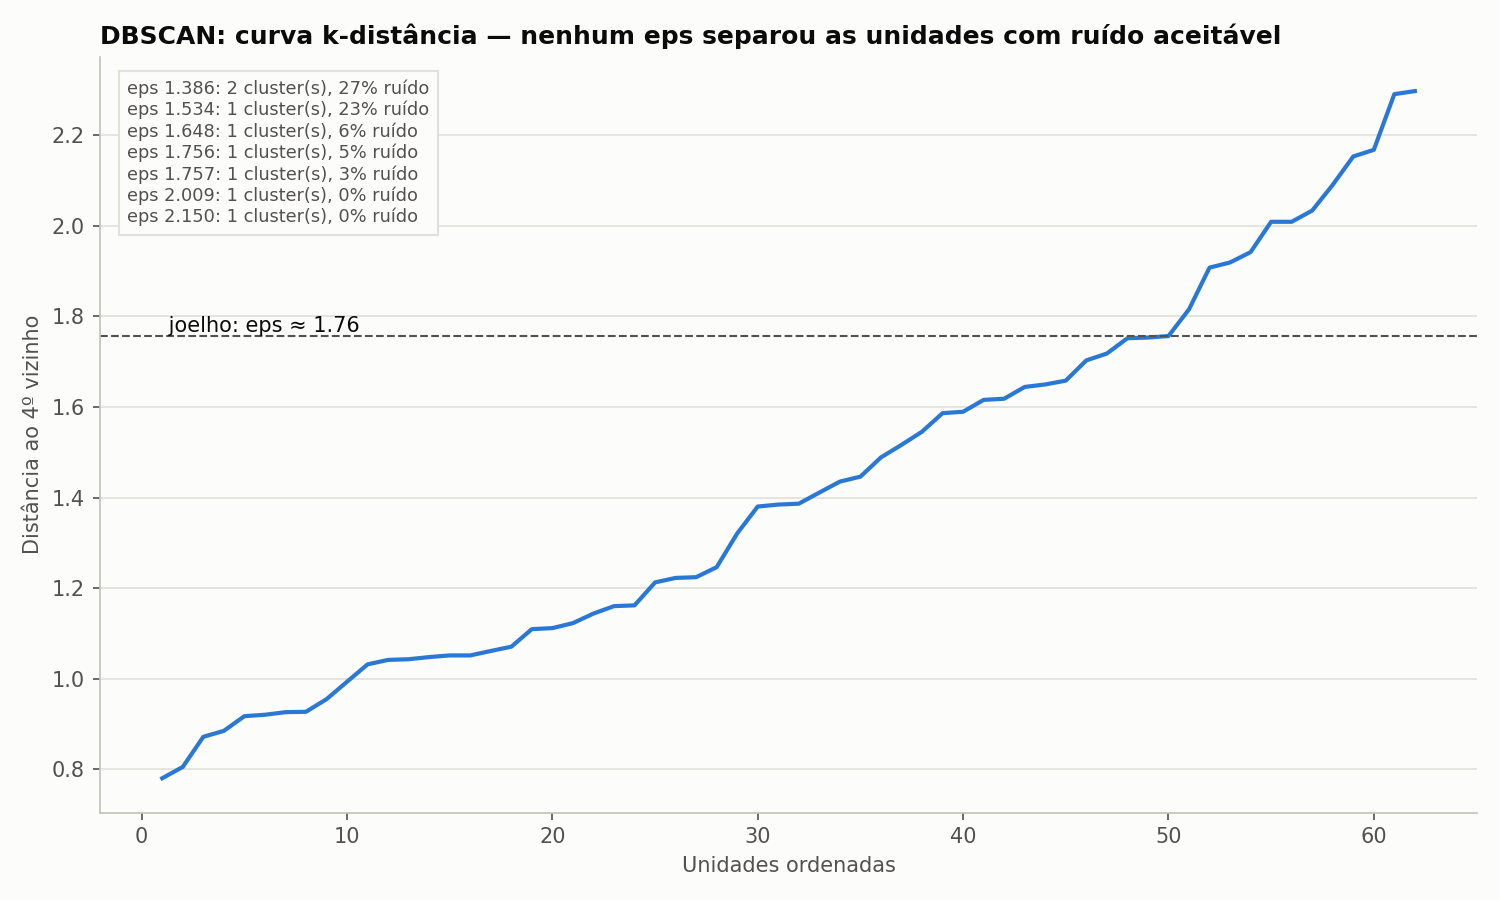
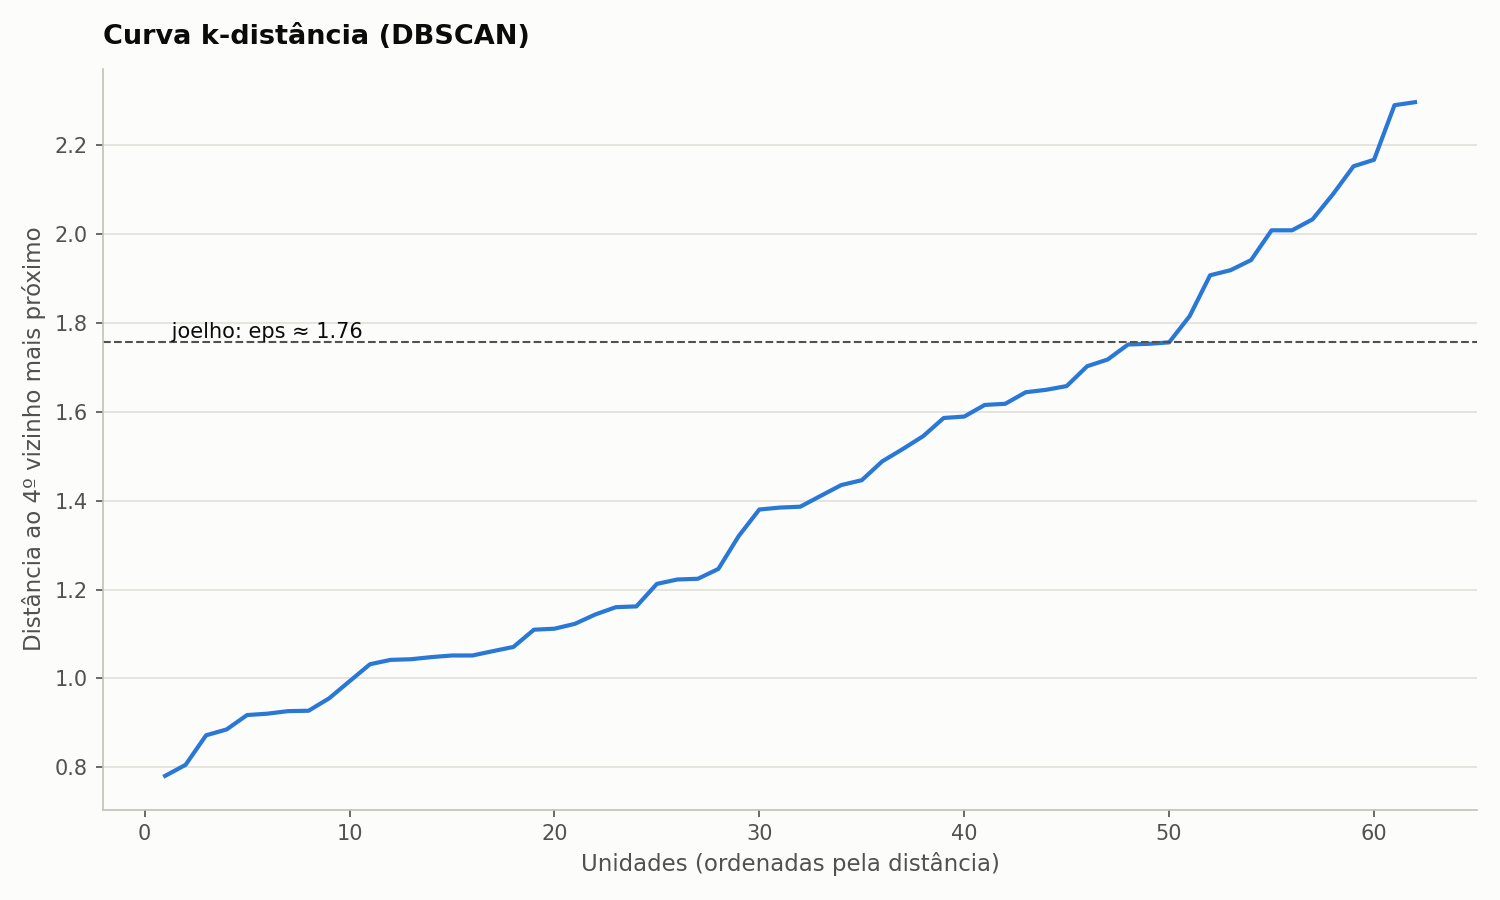
Simplificar visual dos gráficos e definir os eixos no README

diff --git a/ml/clustering_plots.py b/ml/clustering_plots.py
@@ -16,20 +16,17 @@ if __package__:
 else:
     from clustering import ROTULO_RUIDO, ResultadoClusterizacao
 
-# Paleta categórica em ordem fixa (nunca reciclada). Acima de três cores num
-# mesmo gráfico de dispersão algumas se confundem (laranja × rosa, e mais ainda
-# para daltônicos); por isso cada cluster também tem um marcador próprio e
-# rótulo direto, e a cor nunca é a única pista.
+# Paleta categórica em ordem fixa (nunca reciclada): cada cluster tem uma cor,
+# identificada pela legenda.
 CORES = ["#2a78d6", "#eb6834", "#1baf7a", "#eda100", "#e87ba4", "#008300", "#6250d6", "#e34948"]
-MARCADORES = ["o", "s", "^", "D", "P", "v", "X", "*"]
-CINZA = "#bdbcb5"
+COR_RUIDO = "#a3a29c"
 SUPERFICIE = "#fcfcfb"
 TINTA = "#0b0b0b"
 TINTA_SECUNDARIA = "#52514e"
 GRADE = "#e1e0d9"
 EIXO = "#c3c2b7"
 
-# Nomes legíveis das variáveis ativas, usados para descrever os eixos da PCA.
+# Nomes legíveis das variáveis ativas, usados para nomear os eixos da PCA.
 NOMES_VARIAVEIS = {
     "log_notificacoes_semana": "volume de notificações",
     "prop_chikungunya": "% chikungunya",
@@ -50,7 +47,8 @@ def _pyplot():
         "figure.facecolor": SUPERFICIE, "axes.facecolor": SUPERFICIE, "savefig.facecolor": SUPERFICIE,
         "font.family": "sans-serif", "font.size": 10,
         "text.color": TINTA, "axes.labelcolor": TINTA_SECUNDARIA, "axes.titlecolor": TINTA,
-        "axes.titlesize": 12, "axes.titleweight": "bold", "axes.titlelocation": "left",
+        "axes.titlesize": 13, "axes.titleweight": "bold", "axes.titlelocation": "left",
+        "axes.titlepad": 12, "axes.labelsize": 11,
         "axes.edgecolor": EIXO, "axes.spines.top": False, "axes.spines.right": False,
         "xtick.color": TINTA_SECUNDARIA, "ytick.color": TINTA_SECUNDARIA,
         "grid.color": GRADE, "grid.linewidth": .8, "legend.frameon": False, "axes.axisbelow": True,
@@ -68,37 +66,43 @@ def _salvar(figura, destino: Path) -> Path:
     return destino
 
 
-def _juntar(nomes: list[str]) -> str:
-    """["a", "b", "c"] → "a, b e c"."""
-    return nomes[0] if len(nomes) == 1 else ", ".join(nomes[:-1]) + " e " + nomes[-1]
+def _nome_componente(resultado: ResultadoClusterizacao, indice: int) -> str:
+    """Nome curto do eixo: variável de maior carga positiva × de maior carga negativa.
 
-
-def _rotulo_componente(
-    resultado: ResultadoClusterizacao, indice: int, sentido: str,
-    quebrar: bool = False, maximo: int = 3, carga_minima: float = .3,
-) -> str:
-    """Descreve um eixo da PCA pelas variáveis de maior carga no componente.
-
-    Cargas positivas aumentam no sentido do eixo; negativas diminuem. Ex.:
-    "PC1 (26% da variância) — para a direita: mais hospitalização e %
-    chikungunya, menos volume de notificações".
+    A definição completa de cada componente fica no README.
     """
-    pca = resultado.relatorio["pca"]
-    cargas = pca["cargas"][f"PC{indice + 1}"]
-    principais = sorted(cargas.items(), key=lambda item: abs(item[1]), reverse=True)[:maximo]
-    principais = [(variavel, carga) for variavel, carga in principais if abs(carga) >= carga_minima]
-    mais = [NOMES_VARIAVEIS.get(v, v) for v, carga in principais if carga > 0]
-    menos = [NOMES_VARIAVEIS.get(v, v) for v, carga in principais if carga < 0]
-    partes = ([f"mais {_juntar(mais)}"] if mais else []) + ([f"menos {_juntar(menos)}"] if menos else [])
-    cabecalho = f"PC{indice + 1} ({pca['variancia_por_componente'][indice]:.0%} da variância)"
-    if quebrar:
-        return f"{cabecalho}\n{sentido}: " + ",\n".join(partes)
-    return f"{cabecalho} — {sentido}: " + ", ".join(partes)
+    cargas = resultado.relatorio["pca"]["cargas"][f"PC{indice + 1}"]
+    positiva = max(cargas, key=cargas.get)
+    negativa = min(cargas, key=cargas.get)
+    nome = NOMES_VARIAVEIS.get(positiva, positiva)
+    if cargas[negativa] < 0:
+        nome += f" × {NOMES_VARIAVEIS.get(negativa, negativa)}"
+    return f"Componente {indice + 1}: {nome}"
 
 
-def _eixos_pca(eixo, resultado: ResultadoClusterizacao) -> None:
-    eixo.set_xlabel(_rotulo_componente(resultado, 0, "para a direita"))
-    eixo.set_ylabel(_rotulo_componente(resultado, 1, "para cima", quebrar=True))
+def _dispersao(resultado: ResultadoClusterizacao, algoritmo: str, x: str, y: str,
+               titulo: str, rotulo_x: str, rotulo_y: str, destino: Path) -> Path:
+    """Uma cor por cluster, todos no mesmo gráfico; ruído (se houver) em cinza."""
+    plt = _pyplot()
+    perfil = resultado.perfil
+    rotulos = perfil[f"cluster_{algoritmo}"]
+    nomes = perfil[f"nome_cluster_{algoritmo}"]
+    figura, eixo = plt.subplots(figsize=(11, 7))
+    clusters = sorted(c for c in rotulos.unique() if c != ROTULO_RUIDO)
+    for posicao, cluster in enumerate(clusters):
+        selecao = rotulos.eq(cluster)
+        eixo.scatter(perfil.loc[selecao, x], perfil.loc[selecao, y], s=70, color=CORES[posicao % len(CORES)],
+                     edgecolors=SUPERFICIE, linewidths=1, zorder=3,
+                     label=f"{nomes[selecao].iloc[0]} ({selecao.sum()})")
+    ruido = rotulos.eq(ROTULO_RUIDO)
+    if ruido.any():
+        eixo.scatter(perfil.loc[ruido, x], perfil.loc[ruido, y], s=70, color=COR_RUIDO,
+                     edgecolors=SUPERFICIE, linewidths=1, zorder=2,
+                     label=f"{nomes[ruido].iloc[0]} ({ruido.sum()})")
+    eixo.set(title=titulo, xlabel=rotulo_x, ylabel=rotulo_y)
+    eixo.grid(True)
+    eixo.legend(loc="upper left", bbox_to_anchor=(1.01, 1), borderaxespad=0)
+    return _salvar(figura, destino)
 
 
 # ---------------------------------------------------------------------------
@@ -111,12 +115,11 @@ def grafico_cotovelo(resultado: ResultadoClusterizacao, destino: Path) -> Path:
     escolhido = resultado.relatorio["kmeans"]["k_selecionado"]
     figura, eixo = plt.subplots(figsize=(10, 6))
     eixo.plot(ks, inercia, marker="o", color=CORES[0], markersize=7)
-    eixo.scatter([escolhido], [por_k[str(escolhido)]["inercia"]], s=160, color=CORES[0],
-                 edgecolors=TINTA, linewidths=1.5, zorder=4)
-    eixo.annotate(f"k escolhido = {escolhido}", xy=(escolhido, por_k[str(escolhido)]["inercia"]),
+    eixo.scatter([escolhido], [por_k[str(escolhido)]["inercia"]], s=150, color=CORES[0], zorder=4)
+    eixo.annotate(f"k = {escolhido}", xy=(escolhido, por_k[str(escolhido)]["inercia"]),
                   xytext=(12, 12), textcoords="offset points", color=TINTA)
-    eixo.set(xticks=ks, xlabel="Número de clusters (k)", ylabel="Inércia (soma das distâncias² ao centróide)",
-             title="Método do cotovelo")
+    eixo.set(xticks=ks, xlabel="Número de clusters (k)", ylabel="Inércia",
+             title="Método do cotovelo (K-Means)")
     eixo.grid(axis="y")
     return _salvar(figura, destino)
 
@@ -139,8 +142,7 @@ def grafico_diagrama_silhueta(resultado: ResultadoClusterizacao, destino: Path) 
     eixo.axvline(media, color=TINTA, linestyle="--", linewidth=1)
     eixo.text(media, base, f" média {media:.2f}", va="bottom", color=TINTA)
     eixo.axvline(0, color=EIXO, linewidth=1)
-    eixo.set(yticks=[], xlabel="Coeficiente de silhueta de cada unidade",
-             title=f"Diagrama de silhueta — K-Means com k = {len(set(rotulos))}")
+    eixo.set(yticks=[], xlabel="Silhueta de cada unidade", title="Silhueta dos clusters (K-Means)")
     eixo.spines["left"].set_visible(False)
     eixo.set_xlim(min(-.25, valores.min() - .05), 1)
     eixo.grid(axis="x")
@@ -148,92 +150,14 @@ def grafico_diagrama_silhueta(resultado: ResultadoClusterizacao, destino: Path) 
     return _salvar(figura, destino)
 
 
-def _pequenos_multiplos(x, y, rotulos, nomes, titulo, rotulo_x, rotulo_y, destino):
-    """Um painel por cluster: o cluster em destaque, as demais unidades em cinza."""
-    plt = _pyplot()
-    clusters = sorted(set(rotulos))
-    colunas = min(3, len(clusters))
-    linhas = int(np.ceil(len(clusters) / colunas))
-    figura, eixos = plt.subplots(linhas, colunas, figsize=(5 * colunas, 4.3 * linhas),
-                                 sharex=True, sharey=True, squeeze=False)
-    for posicao, eixo in enumerate(eixos.flat):
-        if posicao >= len(clusters):
-            eixo.set_visible(False)
-            continue
-        cluster = clusters[posicao]
-        selecao = rotulos == cluster
-        eixo.scatter(x[~selecao], y[~selecao], s=28, color=CINZA, alpha=.6, linewidths=0)
-        eixo.scatter(x[selecao], y[selecao], s=60, color=CORES[posicao % len(CORES)],
-                     edgecolors=SUPERFICIE, linewidths=1.5)
-        eixo.scatter([x[selecao].mean()], [y[selecao].mean()], s=180, marker="X",
-                     color=CORES[posicao % len(CORES)], edgecolors=TINTA, linewidths=1.2)
-        eixo.set_title(f"{nomes[cluster]} ({selecao.sum()} unid.)", fontsize=10)
-        eixo.grid(True)
-    for eixo in eixos[-1]:
-        eixo.set_xlabel(rotulo_x)
-    for eixo in eixos[:, 0]:
-        eixo.set_ylabel(rotulo_y)
-    figura.suptitle(titulo, x=.01, ha="left", fontweight="bold", fontsize=13)
-    return _salvar(figura, destino)
-
-
 def grafico_kmeans_pca(resultado: ResultadoClusterizacao, destino: Path) -> Path:
-    """Todos os clusters do K-Means num único plano PC1 × PC2."""
-    plt = _pyplot()
-    perfil = resultado.perfil
-    n = resultado.relatorio["pca"]["n_componentes"]
-    figura, eixo = plt.subplots(figsize=(12, 7.5))
-    for posicao, cluster in enumerate(sorted(perfil["cluster_kmeans"].unique())):
-        dados = perfil[perfil["cluster_kmeans"].eq(cluster)]
-        nome = dados["nome_cluster_kmeans"].iloc[0]
-        cor, marcador = CORES[posicao % len(CORES)], MARCADORES[posicao % len(MARCADORES)]
-        eixo.scatter(dados["pc1"], dados["pc2"], s=70, marker=marcador, color=cor,
-                     edgecolors=SUPERFICIE, linewidths=1.2, zorder=3, label=f"{nome} ({len(dados)} unid.)")
-        centro_x, centro_y = dados["pc1"].mean(), dados["pc2"].mean()
-        eixo.scatter([centro_x], [centro_y], s=320, marker=marcador, color=cor,
-                     edgecolors=TINTA, linewidths=1.8, zorder=4)
-        eixo.annotate(f"Cluster {cluster}", xy=(centro_x, centro_y), xytext=(12, 10),
-                      textcoords="offset points", fontsize=10, fontweight="bold", color=TINTA, zorder=5,
-                      bbox={"boxstyle": "round,pad=0.25", "facecolor": SUPERFICIE, "edgecolor": GRADE,
-                            "alpha": .7})
-    _eixos_pca(eixo, resultado)
-    eixo.set_title("Clusters do K-Means nos dois primeiros componentes da PCA")
-    eixo.text(0, 1.01, f"Marcador grande com contorno = centróide do cluster. O agrupamento usa os {n} "
-                       "componentes retidos;\naqui aparecem só os dois primeiros, por isso alguns clusters "
-                       "se sobrepõem.", transform=eixo.transAxes, fontsize=9, color=TINTA_SECUNDARIA,
-              va="bottom")
-    eixo.set_title(eixo.get_title(loc="left"), loc="left", pad=34)
-    eixo.grid(True)
-    eixo.legend(title="Cluster (K-Means)", loc="upper left", bbox_to_anchor=(1.01, 1), borderaxespad=0)
-    return _salvar(figura, destino)
+    return _dispersao(resultado, "kmeans", "pc1", "pc2", "Clusters do K-Means",
+                      _nome_componente(resultado, 0), _nome_componente(resultado, 1), destino)
 
 
 def grafico_hdbscan_pca(resultado: ResultadoClusterizacao, destino: Path) -> Path:
-    plt = _pyplot()
-    perfil = resultado.perfil
-    selecionado = resultado.relatorio["hdbscan"]["selecionado"]
-    figura, eixo = plt.subplots(figsize=(12, 7.5))
-    ruido = perfil["cluster_hdbscan"].eq(ROTULO_RUIDO)
-    eixo.scatter(perfil.loc[ruido, "pc1"], perfil.loc[ruido, "pc2"], s=60, marker="x",
-                 color=TINTA_SECUNDARIA, label=f"Atípicas / ruído ({ruido.sum()})")
-    for posicao, cluster in enumerate(sorted(perfil.loc[~ruido, "cluster_hdbscan"].unique())):
-        selecao = perfil["cluster_hdbscan"].eq(cluster)
-        nome = perfil.loc[selecao, "nome_cluster_hdbscan"].iloc[0]
-        eixo.scatter(perfil.loc[selecao, "pc1"], perfil.loc[selecao, "pc2"],
-                     s=30 + 70 * perfil.loc[selecao, "prob_hdbscan"], color=CORES[posicao],
-                     edgecolors=SUPERFICIE, linewidths=1.5, label=f"{nome} ({selecao.sum()})")
-    n = resultado.relatorio["pca"]["n_componentes"]
-    _eixos_pca(eixo, resultado)
-    eixo.set_title(f"HDBSCAN (min_cluster_size={selecionado['min_cluster_size']}, "
-                   f"min_samples={selecionado['min_samples']})")
-    eixo.text(0, 1.01, f"Tamanho do ponto = probabilidade de pertencer ao cluster. O agrupamento usa os "
-                       f"{n} componentes retidos;\nunidades atípicas no meio da nuvem se afastam nos "
-                       f"componentes não exibidos.", transform=eixo.transAxes, fontsize=9,
-              color=TINTA_SECUNDARIA, va="bottom")
-    eixo.set_title(eixo.get_title(loc="left"), loc="left", pad=34)
-    eixo.grid(True)
-    eixo.legend(loc="upper left", bbox_to_anchor=(1.01, 1), borderaxespad=0)
-    return _salvar(figura, destino)
+    return _dispersao(resultado, "hdbscan", "pc1", "pc2", "Clusters do HDBSCAN",
+                      _nome_componente(resultado, 0), _nome_componente(resultado, 1), destino)
 
 
 def grafico_k_distancia(resultado: ResultadoClusterizacao, destino: Path) -> Path:
@@ -245,29 +169,16 @@ def grafico_k_distancia(resultado: ResultadoClusterizacao, destino: Path) -> Pat
     eixo.axhline(dbscan["eps_joelho"], color=TINTA_SECUNDARIA, linestyle="--", linewidth=1)
     eixo.text(1, dbscan["eps_joelho"], f" joelho: eps ≈ {dbscan['eps_joelho']:.2f}",
               va="bottom", color=TINTA)
-    resumo = "\n".join(
-        f"eps {g['eps']:.3f}: {g['n_clusters']} cluster(s), {g['ruido_pct']:.0f}% ruído"
-        for g in dbscan["grade"]
-    )
-    eixo.text(.02, .97, resumo, transform=eixo.transAxes, va="top", fontsize=8.5, color=TINTA_SECUNDARIA,
-              bbox={"facecolor": SUPERFICIE, "edgecolor": GRADE})
-    eixo.set(xlabel="Unidades ordenadas", ylabel=f"Distância ao {dbscan['min_samples']}º vizinho",
-             title="DBSCAN: curva k-distância" + (
-                 " — nenhum eps separou as unidades com ruído aceitável"
-                 if dbscan["selecionado"] is None else f" — eps escolhido = {dbscan['selecionado']['eps']:.2f}"
-             ))
+    eixo.set(xlabel="Unidades (ordenadas pela distância)",
+             ylabel=f"Distância ao {dbscan['min_samples']}º vizinho mais próximo",
+             title="Curva k-distância (DBSCAN)")
     eixo.grid(axis="y")
     return _salvar(figura, destino)
 
 
 def grafico_tsne(resultado: ResultadoClusterizacao, destino: Path) -> Path:
-    perfil = resultado.perfil
-    nomes = dict(zip(perfil["cluster_kmeans"], perfil["nome_cluster_kmeans"]))
-    return _pequenos_multiplos(
-        perfil["tsne_1"].to_numpy(), perfil["tsne_2"].to_numpy(), perfil["cluster_kmeans"].to_numpy(),
-        nomes, "t-SNE 2D (apenas visualização; distâncias não são preservadas) — clusters do K-Means",
-        "t-SNE 1", "t-SNE 2", destino,
-    )
+    return _dispersao(resultado, "kmeans", "tsne_1", "tsne_2", "Clusters do K-Means (t-SNE)",
+                      "Dimensão 1 do t-SNE", "Dimensão 2 do t-SNE", destino)
 
 
 def gerar_graficos_clusterizacao(resultado: ResultadoClusterizacao, pasta: str | Path) -> list[Path]:

diff --git a/README.md b/README.md
@@ -156,16 +156,50 @@ com ≥ 80% da variância acumulada**: **4 componentes, 82,9%**. Os algoritmos
 rodam nesse espaço. A partição do K-Means no espaço PCA é praticamente a mesma
 do espaço completo (ARI = 0,79). O t-SNE é usado **apenas para visualização**.
 
-Os dois primeiros componentes são os eixos dos gráficos `07_kmeans_clusters_pca`
-e `08_hdbscan_clusters_pca`, nomeados pelas variáveis de maior carga:
+#### O que representam os eixos dos gráficos de clusters
 
-- **PC1 (26%)**: para a direita, mais hospitalização e % chikungunya e menos
-  volume de notificações;
-- **PC2 (24%)**: para cima, mais dispersão territorial e menos idade média e %
-  chikungunya.
+Os gráficos `07_kmeans_clusters_pca` e `08_hdbscan_clusters_pca` usam os dois
+primeiros componentes da PCA como eixos. Cada componente é uma combinação das
+variáveis ativas; o peso (carga) de cada variável indica quanto ela empurra a
+unidade para um lado ou para o outro do eixo.
 
-A variância e as cargas de todos os componentes ficam em
+**Eixo horizontal — Componente 1: hospitalização × volume de notificações**
+(26% da variância)
+
+| Variável | Carga | Efeito |
+| --- | --- | --- |
+| Hospitalização | +0,66 | puxa para a direita |
+| % chikungunya | +0,45 | puxa para a direita |
+| Volume de notificações | −0,51 | puxa para a esquerda |
+
+À direita ficam unidades com muitas internações, mais chikungunya e poucas
+notificações (o perfil hospitalar); à esquerda, as grandes notificadoras, com
+pouca hospitalização.
+
+**Eixo vertical — Componente 2: dispersão territorial × idade média**
+(24% da variância)
+
+| Variável | Carga | Efeito |
+| --- | --- | --- |
+| Dispersão territorial | +0,67 | puxa para cima |
+| Hospitalização | +0,35 | puxa para cima |
+| Idade média | −0,48 | puxa para baixo |
+| % chikungunya | −0,43 | puxa para baixo |
+
+No alto ficam unidades que atendem pacientes de muitos bairros e mais jovens
+(o perfil pediátrico); embaixo, unidades de abrangência local, com pacientes
+mais velhos.
+
+As tabelas listam só as variáveis com carga de pelo menos 0,3 em módulo; as
+demais têm pouco peso no eixo. O agrupamento usa os 4 componentes retidos; os
+gráficos mostram só os dois primeiros (50% da variância), por isso alguns
+clusters parecem se sobrepor. A
+variância e as cargas de todos os componentes ficam em
 `metricas_clusterizacao.json`.
+
+No gráfico `10_tsne_clusters`, os eixos (dimensões 1 e 2 do t-SNE) **não
+correspondem a variáveis**: o t-SNE só posiciona perto as unidades parecidas.
+Por isso ele serve apenas para visualizar a separação dos clusters.
 
 ### Algoritmos e escolha de parâmetros
 
